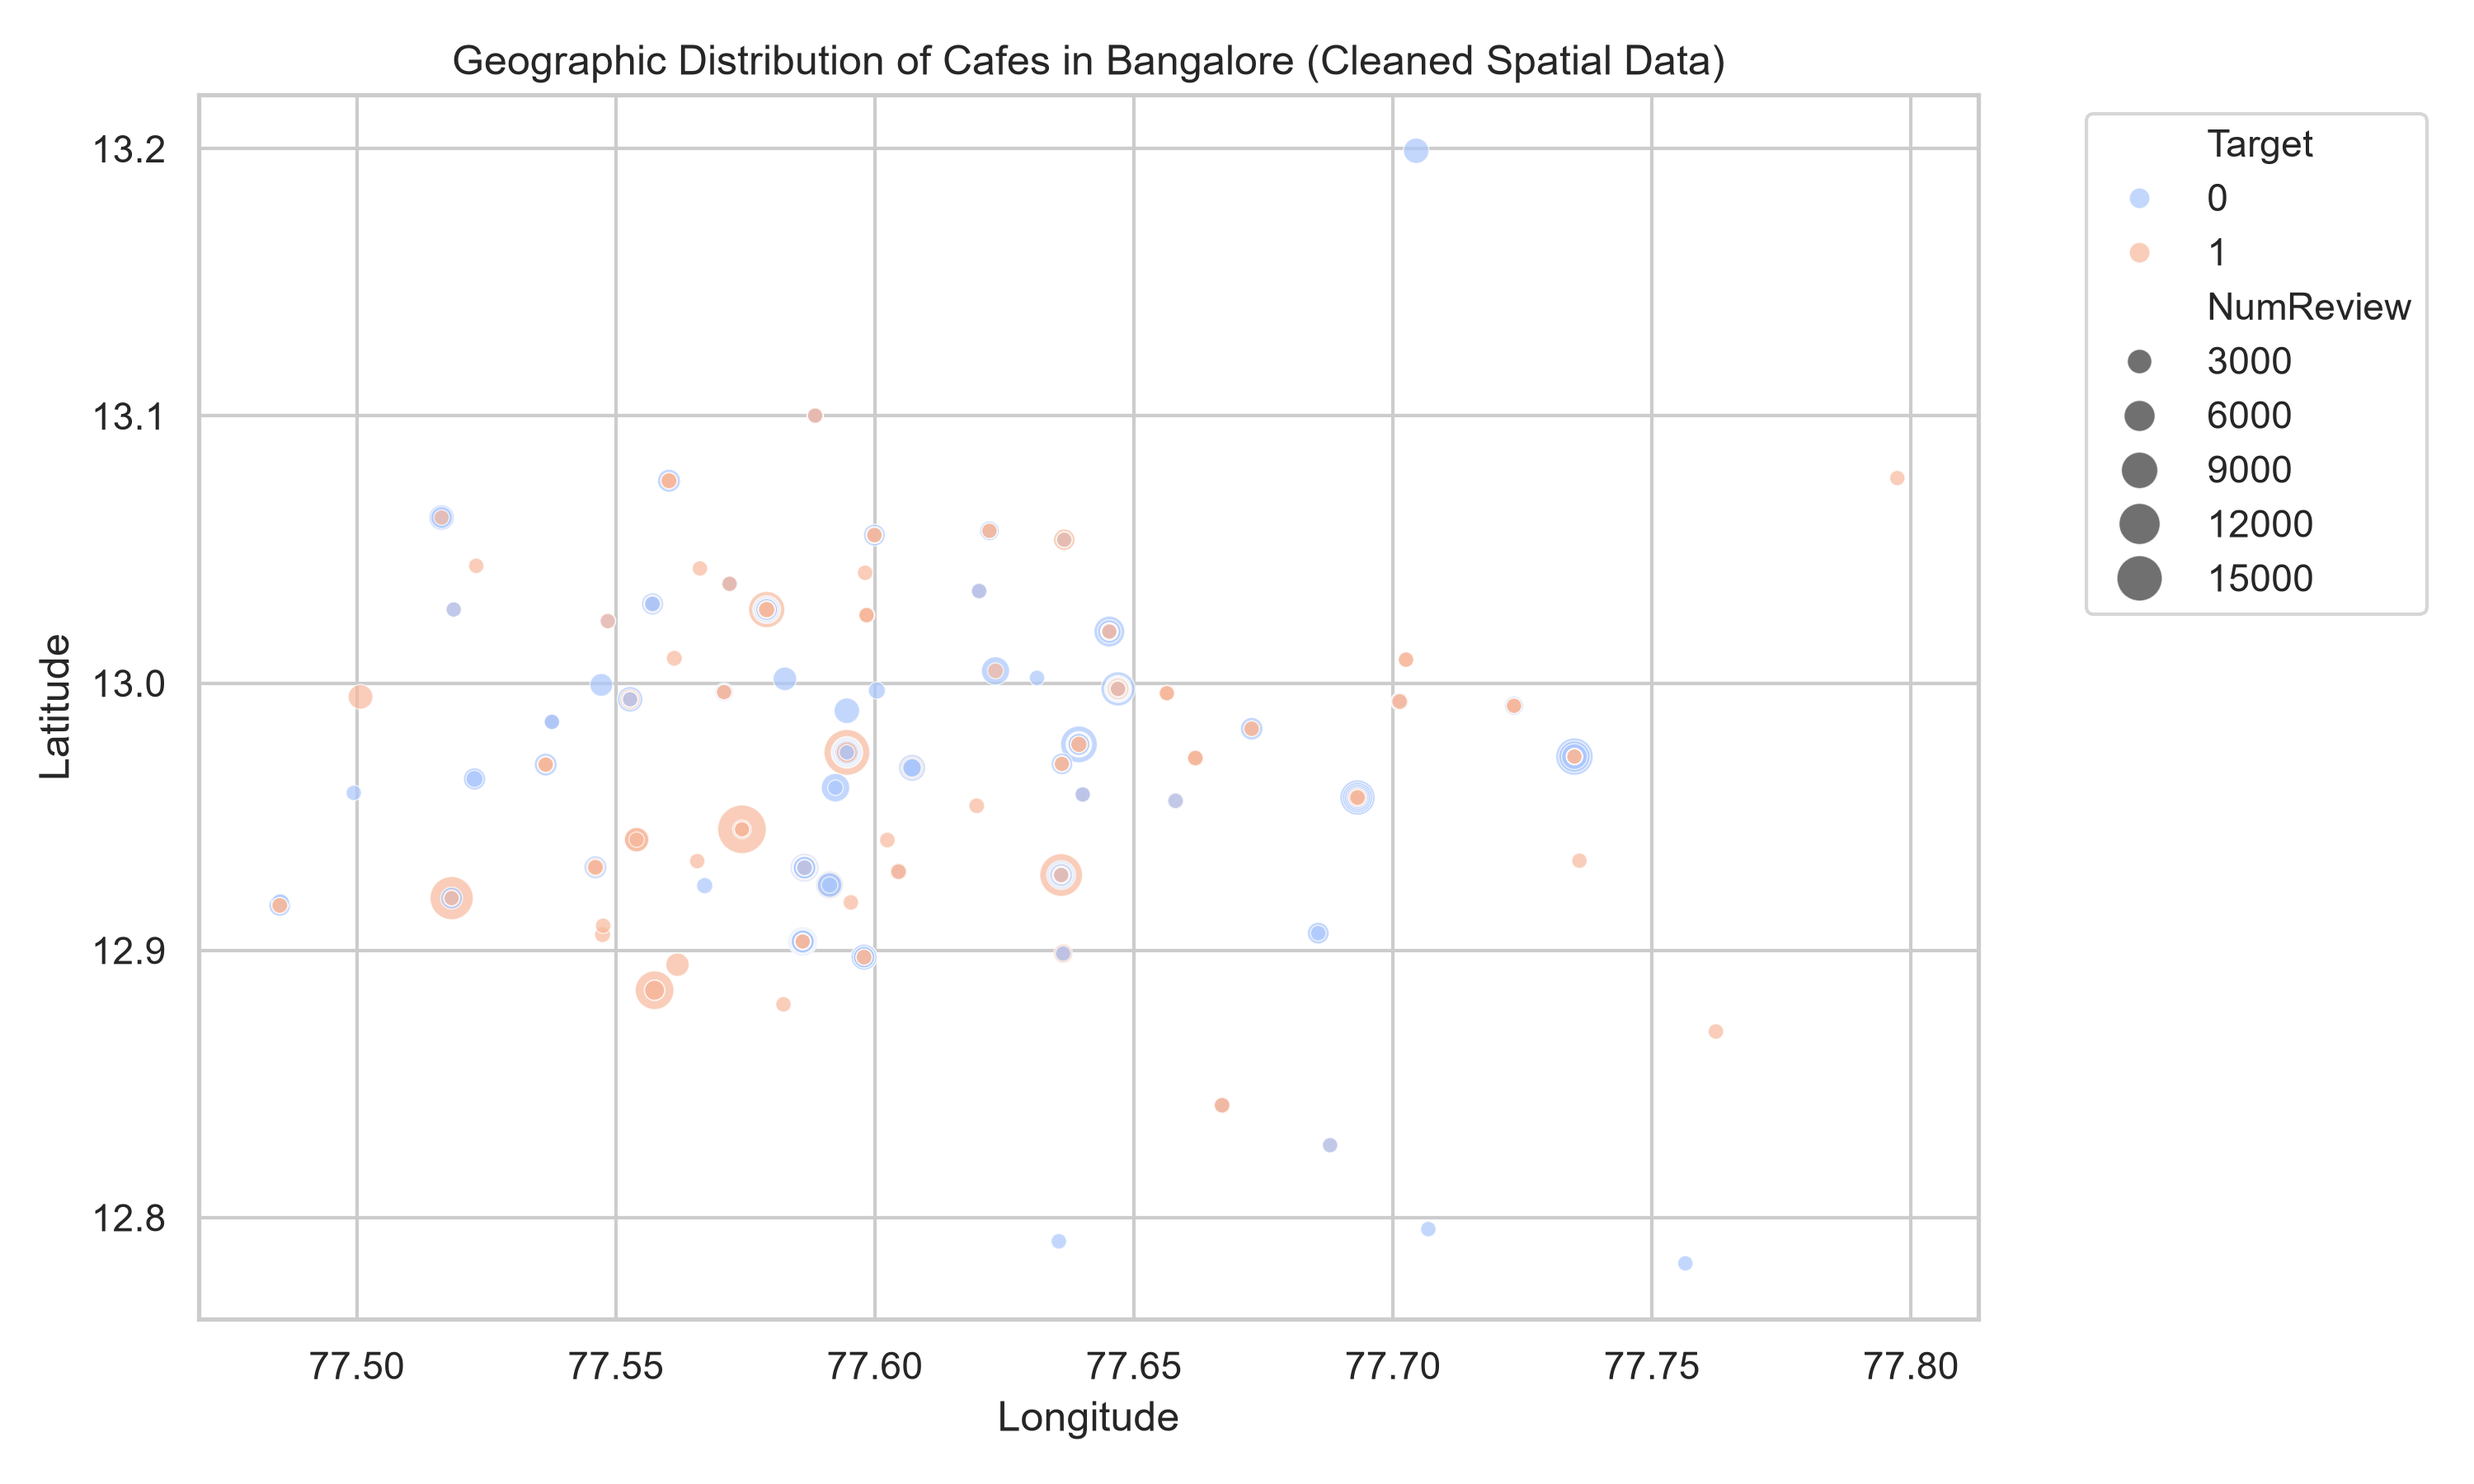
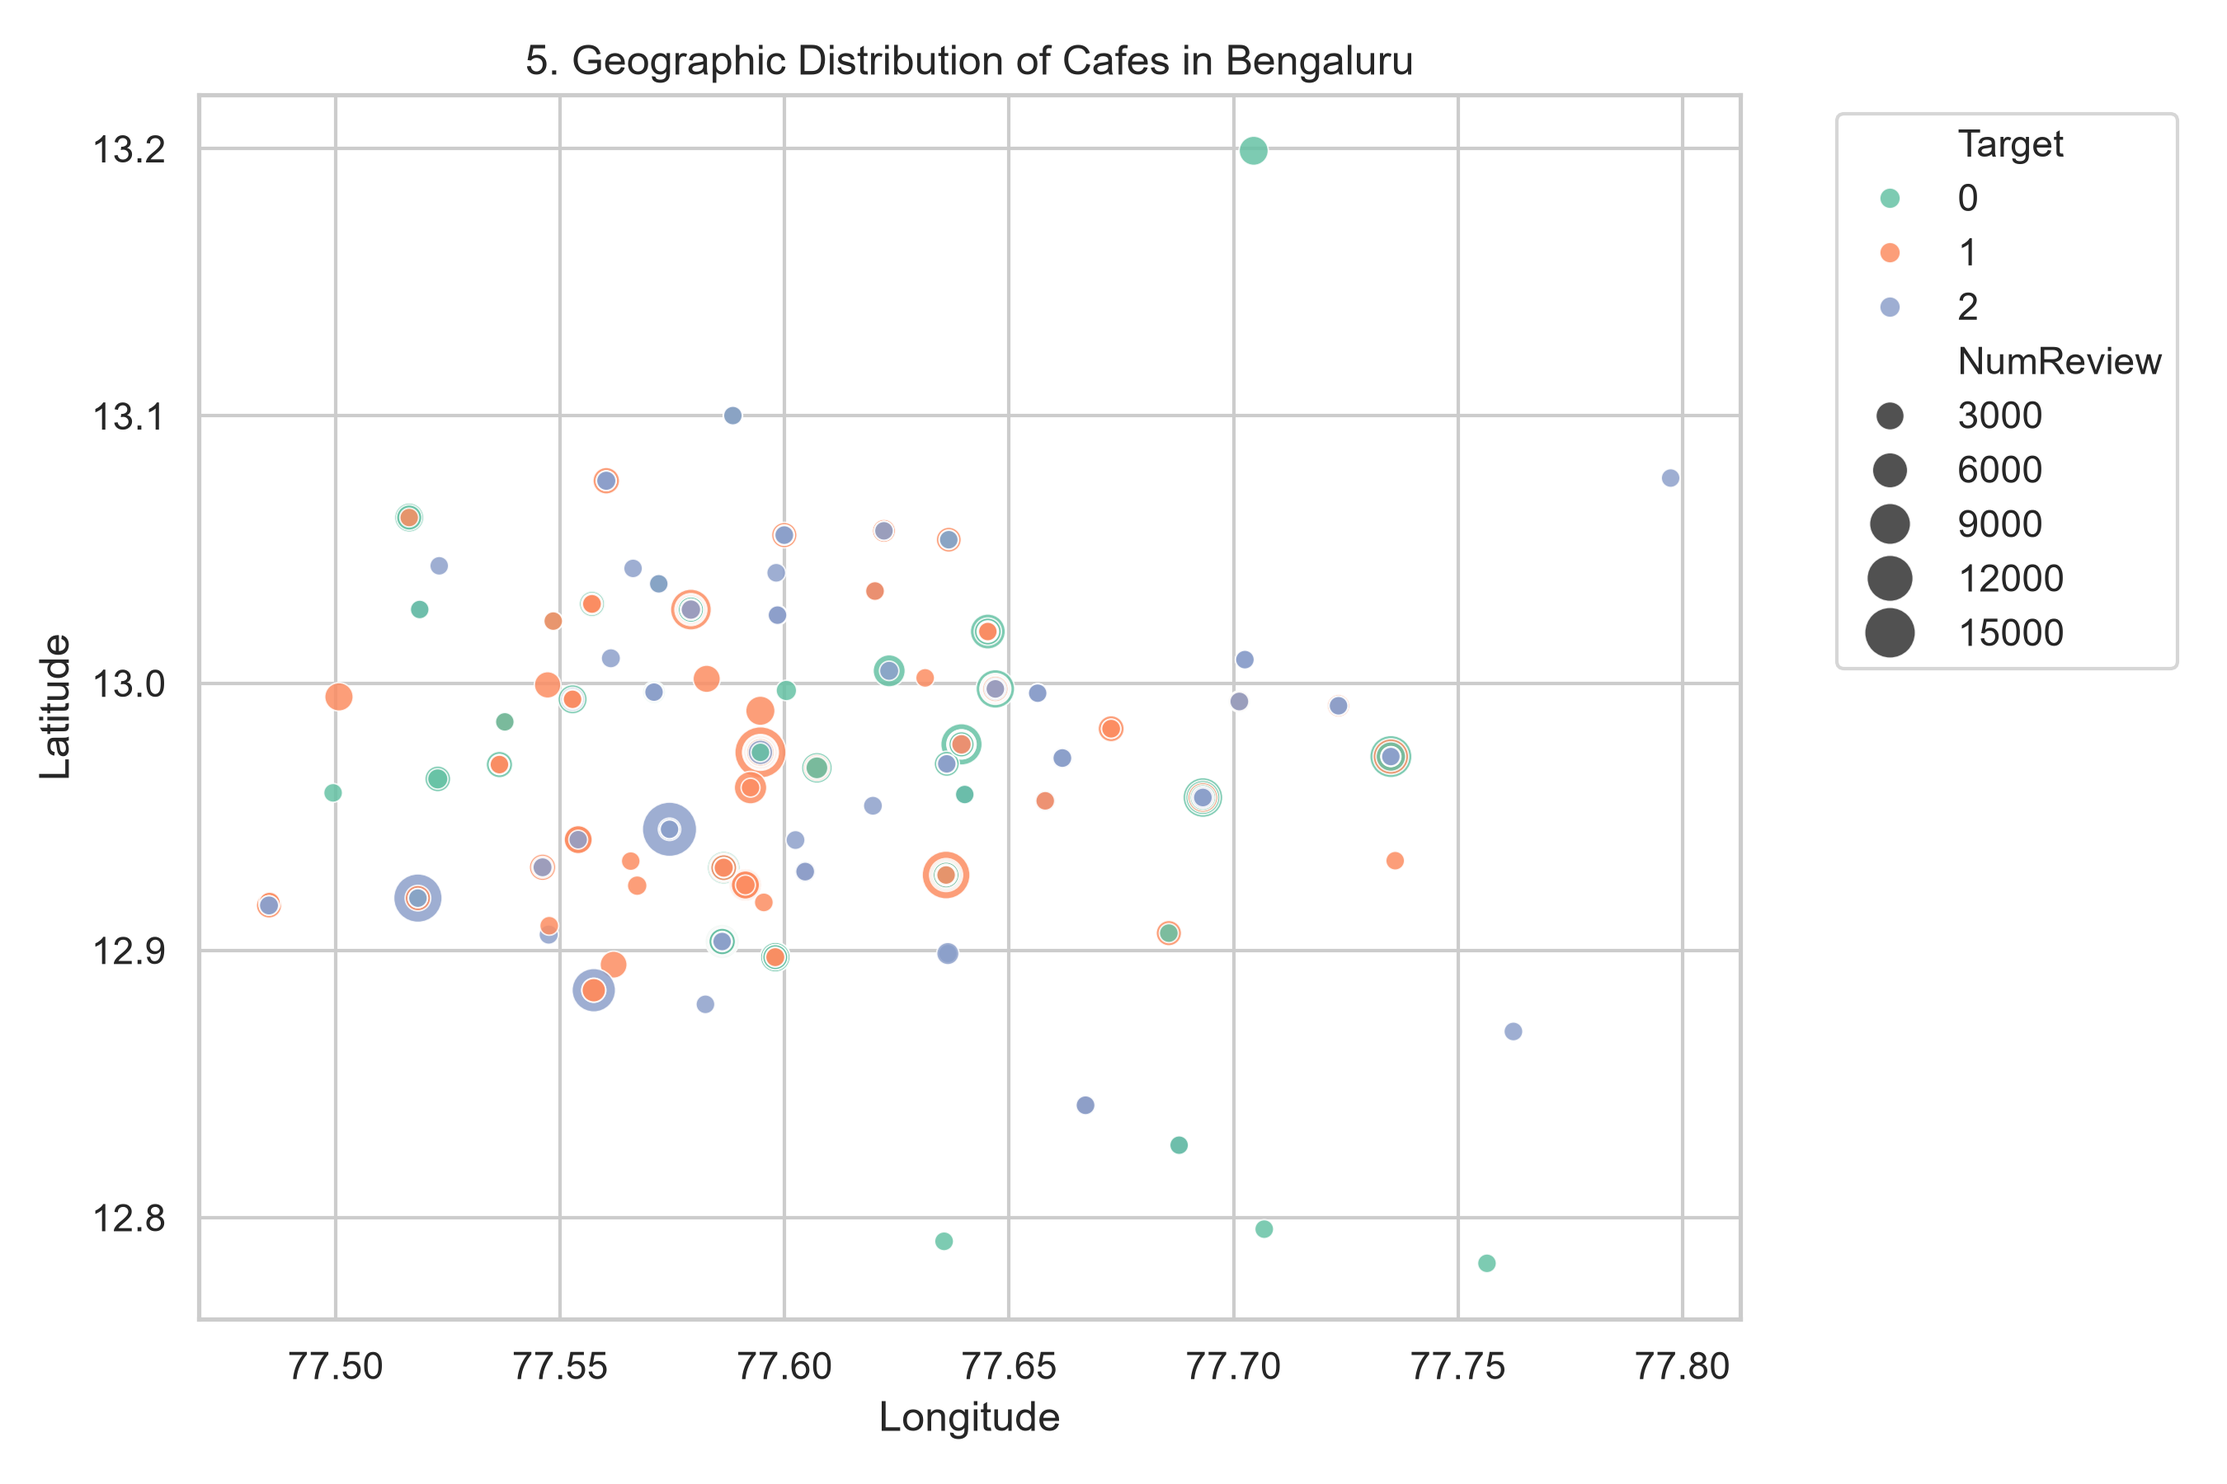
Update EDA script to generate all 5 high-res plots

diff --git a/notebooks/eda_and_preprocessing.py b/notebooks/eda_and_preprocessing.py
@@ -4,48 +4,119 @@ import matplotlib.pyplot as plt
 import seaborn as sns
 import os
 
-# Set style
-sns.set(style="whitegrid")
+# Set visual style
+sns.set_theme(style="whitegrid")
+plt.rcParams.update({'font.size': 12})
 
-# 1. Load Data
+# 1. Load Original Dataset
 data_path = "data/original/Data Test - Sheet1.csv"
+if not os.path.exists(data_path):
+    print(f"Error: {data_path} not found.")
+    exit()
+
 df = pd.read_csv(data_path)
 
-# Create output directory for plots if it doesn't exist
+# Ensure plots output directory exists
 plots_dir = "documentation/plots"
-if not os.path.exists(plots_dir):
-    os.makedirs(plots_dir)
+os.makedirs(plots_dir, exist_ok=True)
 
-# OUTLIER REMOVAL: Filter out the data typos (Latitude > 20 or Longitude < 70 are wrong for Bangalore)
+print("--- 1. Raw Dataset Overview ---")
+print(f"Original Dimensions: {df.shape}")
+
+# 2. Preprocessing & Outlier Filtering (Bengaluru Spatial Coordinates)
 df = df[(df['Latitude'] >= 12.0) & (df['Latitude'] <= 14.0)]
 df = df[(df['Longitude'] >= 77.0) & (df['Longitude'] <= 78.0)]
 
-print("--- 1. Dataset Overview After Clean Spatial Filtering ---")
-print(f"Dimensions: {df.shape}")
+# Drop duplicates
+df = df.drop_duplicates(subset=['Company Name', 'Address']).copy()
 
-# Define Target Variable for Classification
-df['Target'] = (df['Rating'] >= 4.3).astype(int)
+# Discretize Rating Target (Class 0: <4.05, Class 1: 4.05-4.45, Class 2: >=4.45)
+df['Target'] = 0
+df.loc[df['Rating'] >= 4.05, 'Target'] = 1
+df.loc[df['Rating'] >= 4.45, 'Target'] = 2
 
-# Visualization 5: Clean Geographic Distribution by Rating
-plt.figure(figsize=(10, 6))
+print(f"Cleaned Dataset Dimensions: {df.shape}")
+
+# ---------------------------------------------------------
+# Plot 1: Rating Distribution Histogram
+# ---------------------------------------------------------
+plt.figure(figsize=(8, 5))
+sns.histplot(df['Rating'], kde=True, bins=15, color='teal')
+plt.title('1. Rating Distribution Histogram')
+plt.xlabel('Rating (1.0 - 5.0)')
+plt.ylabel('Frequency')
+plt.tight_layout()
+plt.savefig(f"{plots_dir}/1_rating_distribution.png", dpi=300)
+plt.close()
+print("Saved 1_rating_distribution.png")
+
+# ---------------------------------------------------------
+# Plot 2: Class Distribution Bar Chart
+# ---------------------------------------------------------
+plt.figure(figsize=(7, 5))
+ax = sns.countplot(data=df, x='Target', hue='Target', palette='viridis', legend=False)
+plt.title('2. Operational Rating Target Class Distribution')
+plt.xlabel('Target Class (0: <4.05 | 1: 4.05-4.45 | 2: >=4.45)')
+plt.ylabel('Count')
+for p in ax.patches:
+    ax.annotate(f'{int(p.get_height())}', (p.get_x() + p.get_width() / 2., p.get_height()),
+                ha='center', va='center', xytext=(0, 5), textcoords='offset points')
+plt.tight_layout()
+plt.savefig(f"{plots_dir}/2_class_distribution.png", dpi=300)
+plt.close()
+print("Saved 2_class_distribution.png")
+
+# ---------------------------------------------------------
+# Plot 3: Reviews vs Rating Scatter Plot
+# ---------------------------------------------------------
+plt.figure(figsize=(8, 5))
+sns.scatterplot(data=df, x='NumReview', y='Rating', hue='Target', palette='deep', alpha=0.8, s=70)
+plt.title('3. Customer Reviews vs Rating')
+plt.xlabel('Number of Reviews (NumReview)')
+plt.ylabel('Rating')
+plt.tight_layout()
+plt.savefig(f"{plots_dir}/3_reviews_vs_rating.png", dpi=300)
+plt.close()
+print("Saved 3_reviews_vs_rating.png")
+
+# ---------------------------------------------------------
+# Plot 4: Feature Correlation Heatmap
+# ---------------------------------------------------------
+plt.figure(figsize=(8, 6))
+numeric_cols = ['Rating', 'NumReview', 'Pin Code', 'Latitude', 'Longitude', 'Target']
+corr = df[numeric_cols].corr()
+sns.heatmap(corr, annot=True, fmt=".2f", cmap='coolwarm', square=True, linewidths=.5)
+plt.title('4. Feature Correlation Matrix Heatmap')
+plt.tight_layout()
+plt.savefig(f"{plots_dir}/4_correlation_heatmap.png", dpi=300)
+plt.close()
+print("Saved 4_correlation_heatmap.png")
+
+# ---------------------------------------------------------
+# Plot 5: Clean Geographic Distribution Plot
+# ---------------------------------------------------------
+plt.figure(figsize=(9, 6))
 sns.scatterplot(
     data=df,
     x='Longitude',
     y='Latitude',
     hue='Target',
     size='NumReview',
-    sizes=(20, 200),
-    palette='coolwarm',
-    alpha=0.7
+    sizes=(30, 250),
+    palette='Set2',
+    alpha=0.85
 )
-plt.title('Geographic Distribution of Cafes in Bangalore (Cleaned Spatial Data)')
+plt.title('5. Geographic Distribution of Cafes in Bengaluru')
 plt.xlabel('Longitude')
 plt.ylabel('Latitude')
 plt.legend(bbox_to_anchor=(1.05, 1), loc='upper left')
 plt.tight_layout()
 plt.savefig(f"{plots_dir}/5_geo_distribution.png", dpi=300)
 plt.close()
+print("Saved 5_geo_distribution.png")
 
-# Save clean processed data
+# ---------------------------------------------------------
+# Save Clean Processed Dataset
+# ---------------------------------------------------------
 df.to_csv("data/processed/cleaned_cafes.csv", index=False)
-print("Processed data saved cleanly to data/processed/cleaned_cafes.csv")
+print("✅ Cleaned processed dataset saved to data/processed/cleaned_cafes.csv")
